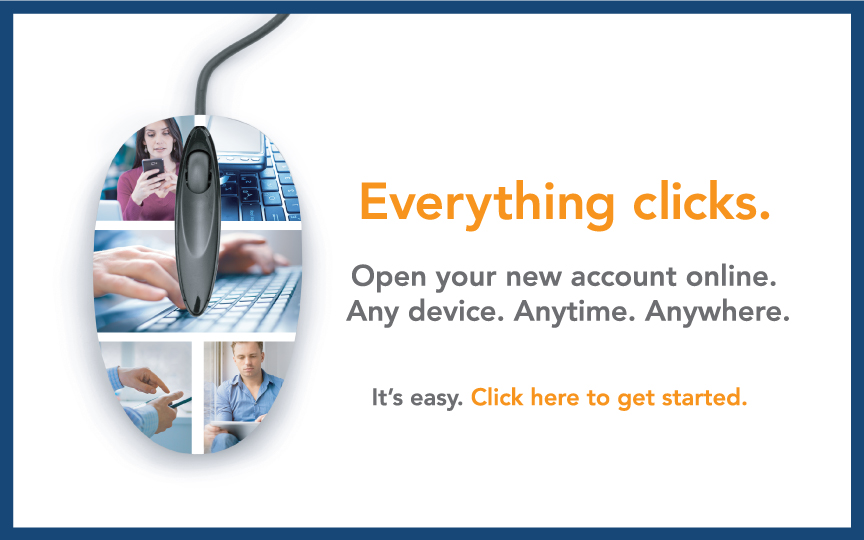
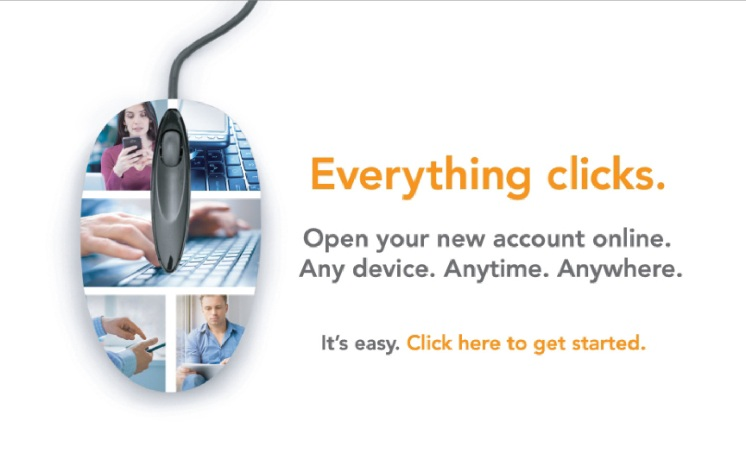
updates for heloc add

diff --git a/loans.html b/loans.html
@@ -4,7 +4,7 @@
 <!--[if IE 7]>         <html class="no-js lt-ie9 lt-ie8"> <![endif]-->
 <!--[if IE 8]>         <html class="no-js lt-ie9"> <![endif]-->
 <!--[if gt IE 8]><!--> <html class="no-js"> <!--<![endif]-->
-    
+
     <head>
 
         <meta charset="utf-8">
@@ -16,7 +16,7 @@
         <meta name="apple-itunes-app" content="app-id=656267239">
 
     <!--#include virtual="header.html" -->
-    
+
         <main role="main">
           <div class="container">
             <div class="row row-background img-rounded">
@@ -70,7 +70,7 @@
             </div><!-- row -->
             <div class="row spacer">
               <div class="col-md-6">
-                <img class="picture" src="img/homeequity.jpg">
+                <a href="loans.html#disclosure"><img class="picture" src="img/heloc-web-800x600.jpg" alt="Home Equity Special Offer">
               </div>
               <div class="col-md-6">
                 <a class="anchor" name="homeequity"><h2>Home Equity</h2></a>
@@ -92,7 +92,7 @@
                 <p>Avenue Bank has options for you whether you are looking to purchase a new car, your dream car, or finance your next vehicle.</p>
                 <ul>
                   <li>Competitive Rates</li>
-                  <li>Personal Service</li> 
+                  <li>Personal Service</li>
                   <li>Automatic Payment Options</li>
                   <li>Manage Your Loan Online</li>
                 </ul>
@@ -147,7 +147,11 @@
                 <p>Existing cardholders may click <a href="https://www.myaccountaccess.com/onlineCard/login.do" class="alertexit">here</a> to access their accounts.</p>
               </div>
             </div><!-- row -->
-
+            <div class="row spacer">
+              <div class="col-md-12">
+                <p><a class="anchor" name="disclosure"><b>Home Equity Line of Credit: </b></a>*Annual Percentage Rate (APR) effective 8/15/16. Applications taken through 10/31/16 and closed by 12/1/16 guaranteed advertised rate. **Closing fees waived for home equity lines of credit up to $100,000 and range from $400-$2,000 for loans $100,000 or greater. Minimum loan amount $5,000. Offer available for owner occupied residences only and are subject to credit approval. Advertised rate applies to new home equity credit accounts and not available for refinancing of existing CIBM Bank accounts. Property insurance and flood insurance (if applicable) required. Rate after six months will vary and is based on credit history and tied to Prime. Non promotional rates as of 8/15/16 vary from 4.00%-18% APR. Maximum APR will not exceed 18%. Early termination fee of $250 will be assessed if credit line is closed within 24 months. (Early termination may not be applicable in all states.) †Consult a tax advisor regarding the deductibility of interest. All terms and conditions of this offer are subject to change at any time without notice. Under certain circumstances access to credit can be frozen, reduced or terminated.</p>
+              </div>
+            </div><!--row -->
           </div>
         </main>
 
